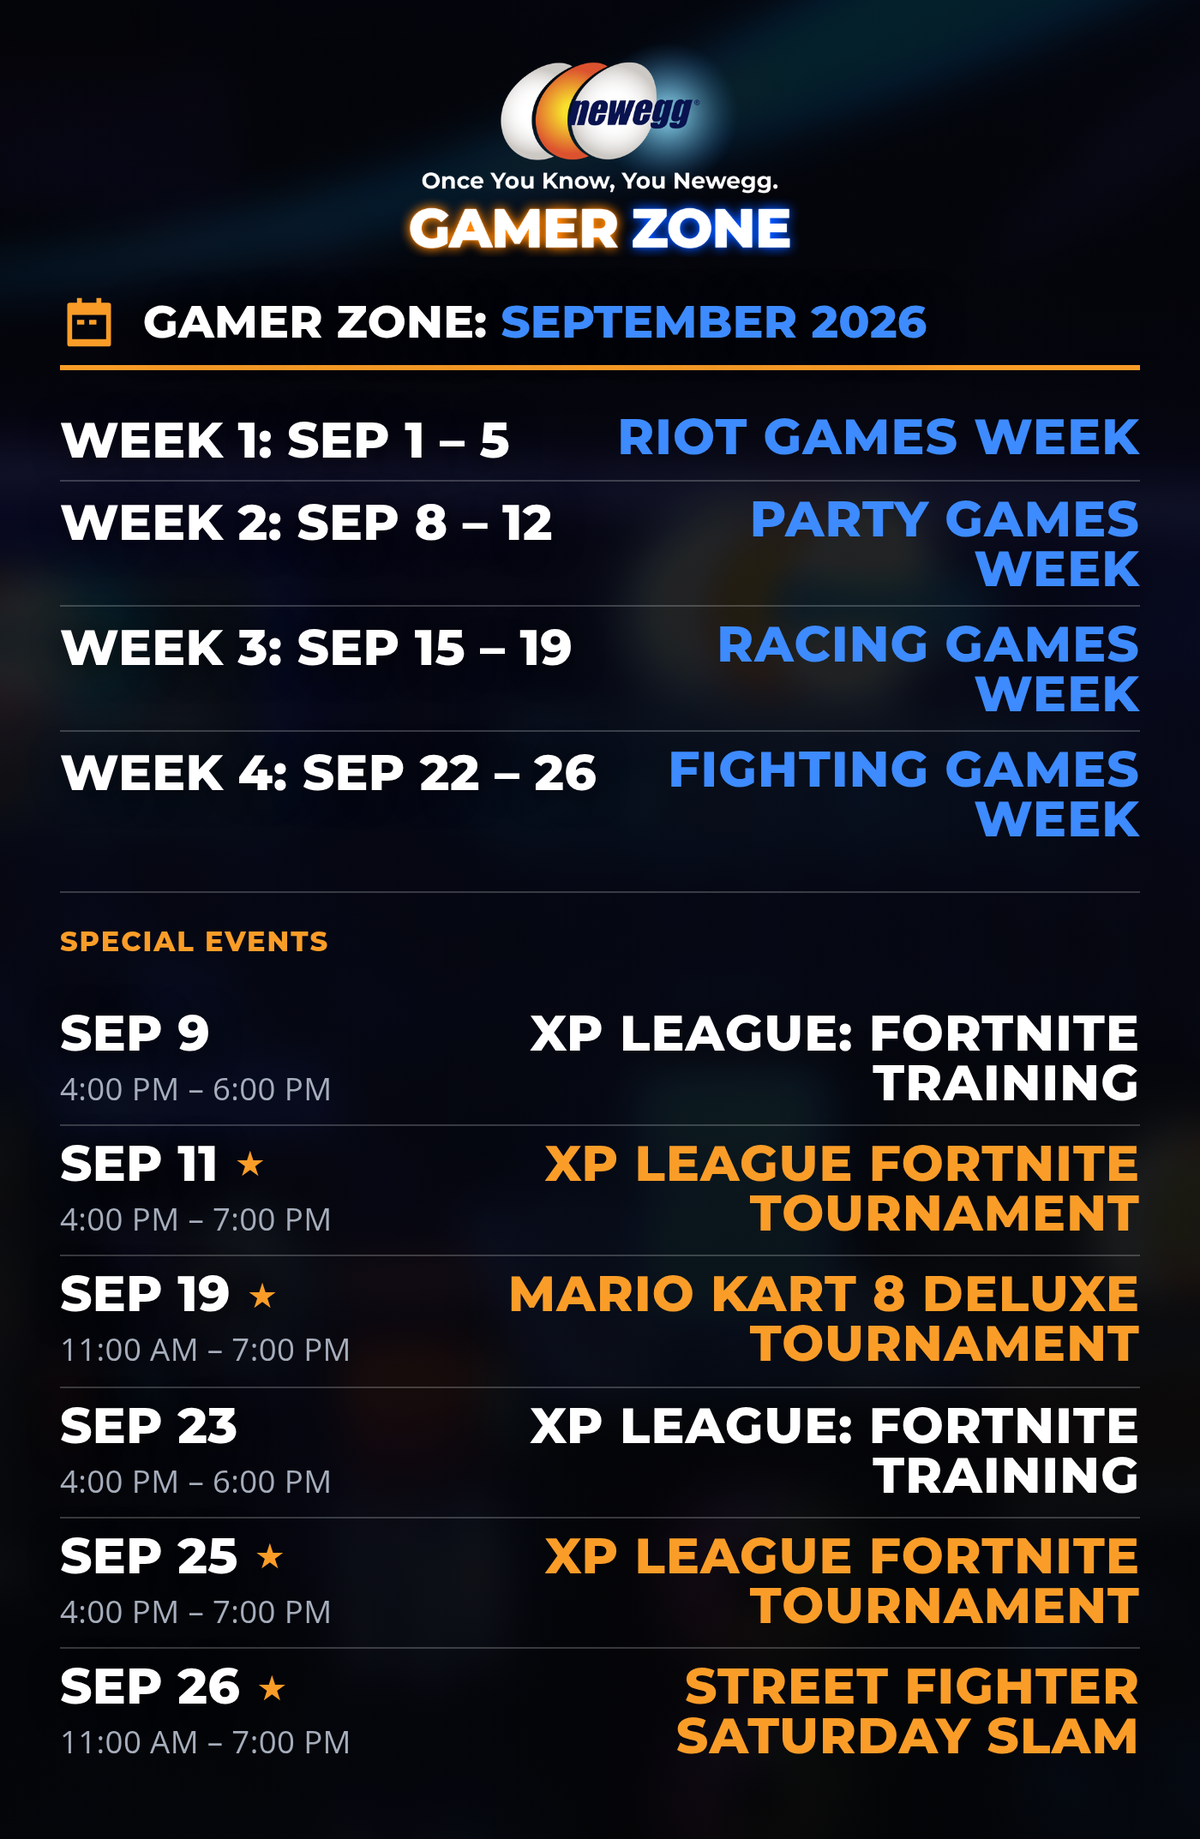
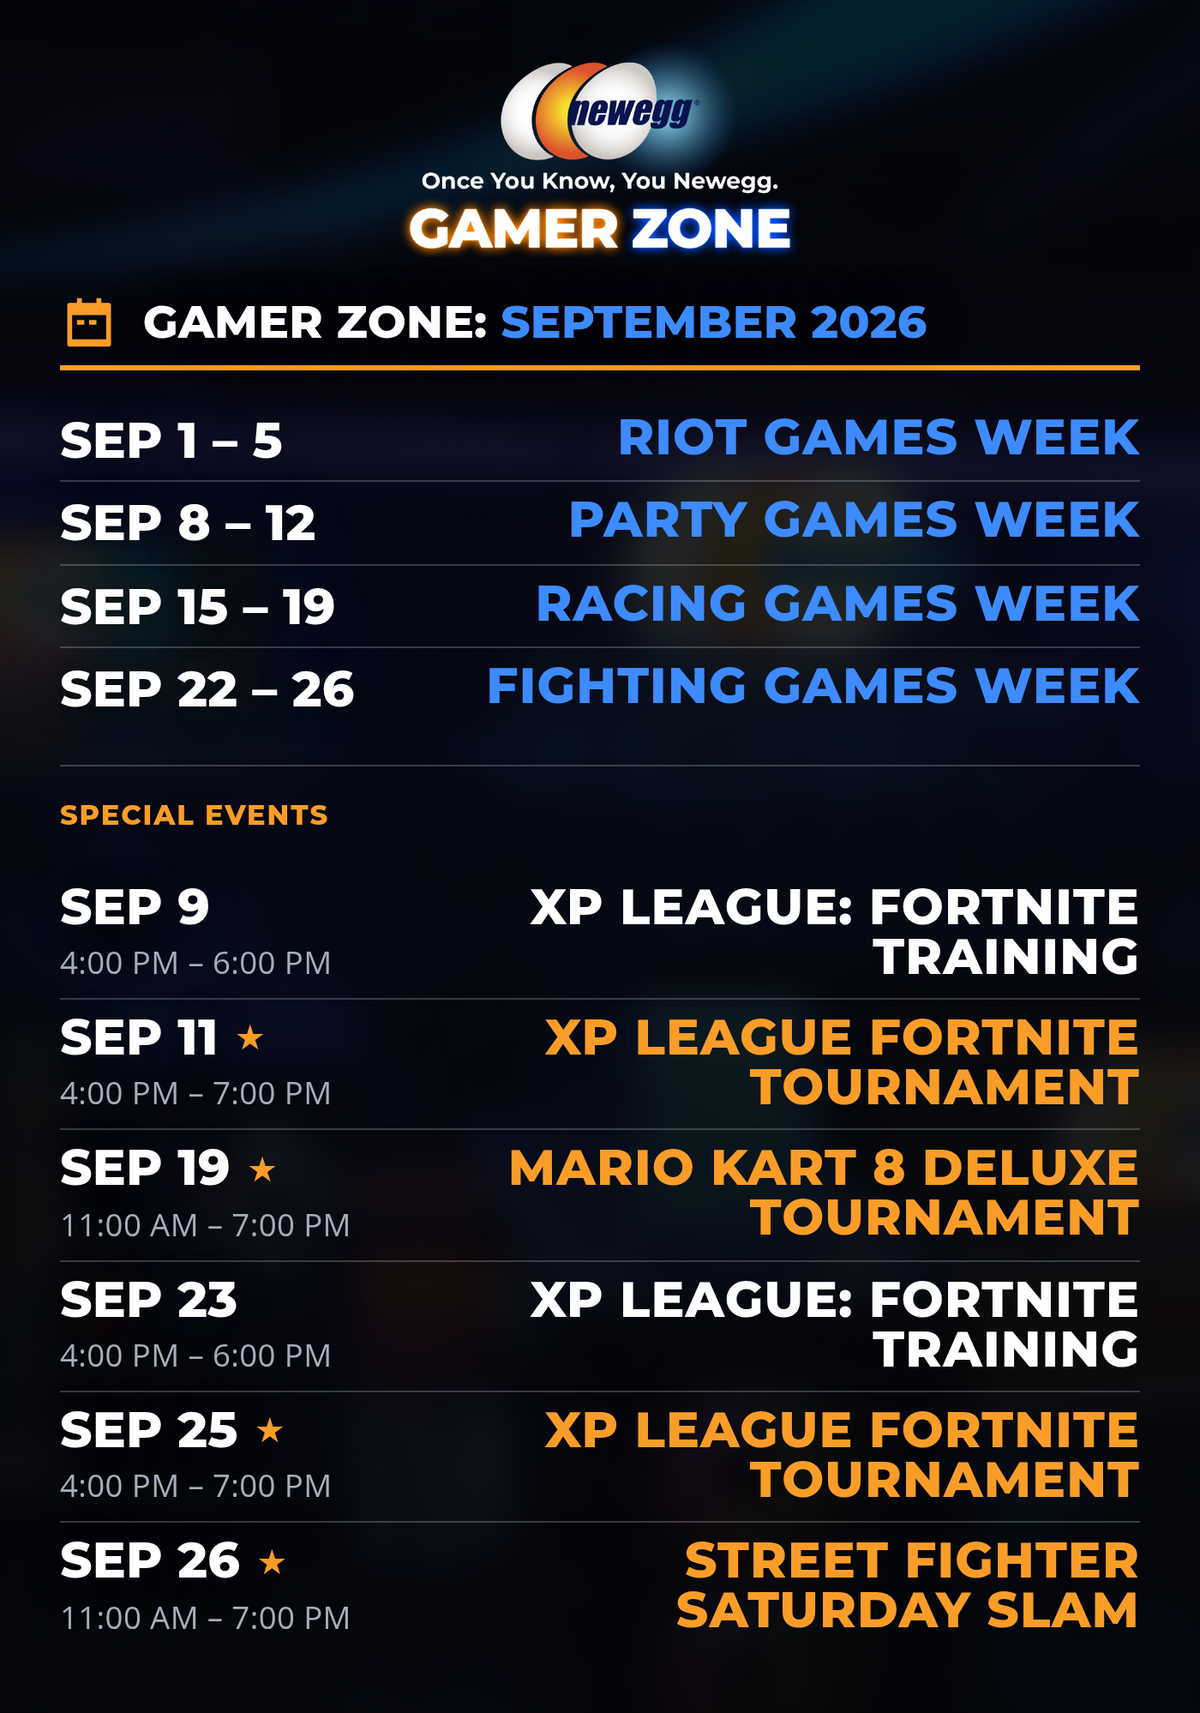
Monthly-calendar screenshot: drop redundant Week N: prefix so each theme name fits on one line

Changed region(s): [[0.0308, 0.0309, 0.9558, 0.4641], [0.4008, 0.495, 0.9558, 0.9591], [0.0308, 0.4641, 0.3083, 0.9591]]

diff --git a/screenshot-monthly-calendar.html b/screenshot-monthly-calendar.html
@@ -61,25 +61,25 @@
 
       <div class="eu-list">
         <div class="eu-row eu-week-row">
-          <div class="eu-date-wrap"><span class="eu-date">Week 1: Sep 1 &ndash; 5</span></div>
+          <div class="eu-date-wrap"><span class="eu-date">Sep 1 &ndash; 5</span></div>
           <div class="eu-info">
             <div class="eu-name eu-theme-highlight">Riot Games Week</div>
           </div>
         </div>
         <div class="eu-row eu-week-row">
-          <div class="eu-date-wrap"><span class="eu-date">Week 2: Sep 8 &ndash; 12</span></div>
+          <div class="eu-date-wrap"><span class="eu-date">Sep 8 &ndash; 12</span></div>
           <div class="eu-info">
             <div class="eu-name eu-theme-highlight">Party Games Week</div>
           </div>
         </div>
         <div class="eu-row eu-week-row">
-          <div class="eu-date-wrap"><span class="eu-date">Week 3: Sep 15 &ndash; 19</span></div>
+          <div class="eu-date-wrap"><span class="eu-date">Sep 15 &ndash; 19</span></div>
           <div class="eu-info">
             <div class="eu-name eu-theme-highlight">Racing Games Week</div>
           </div>
         </div>
         <div class="eu-row eu-week-row">
-          <div class="eu-date-wrap"><span class="eu-date">Week 4: Sep 22 &ndash; 26</span></div>
+          <div class="eu-date-wrap"><span class="eu-date">Sep 22 &ndash; 26</span></div>
           <div class="eu-info">
             <div class="eu-name eu-theme-highlight">Fighting Games Week</div>
           </div>
